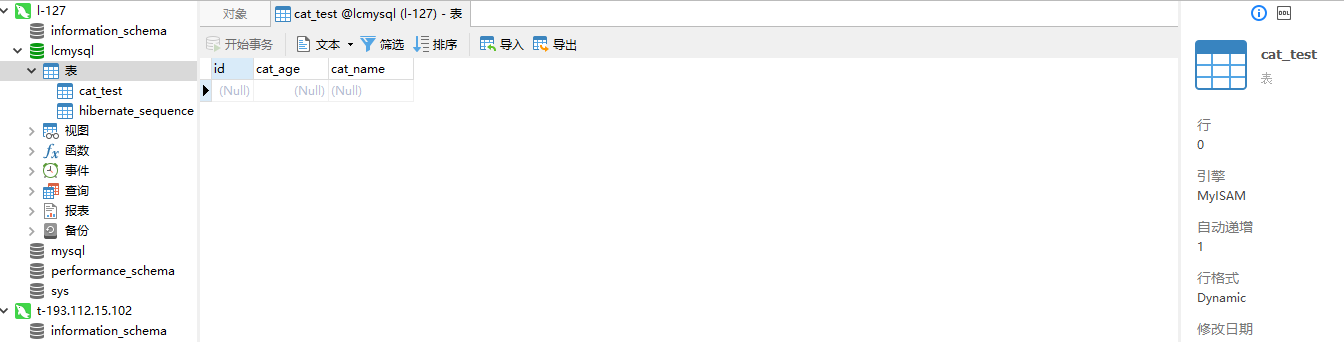
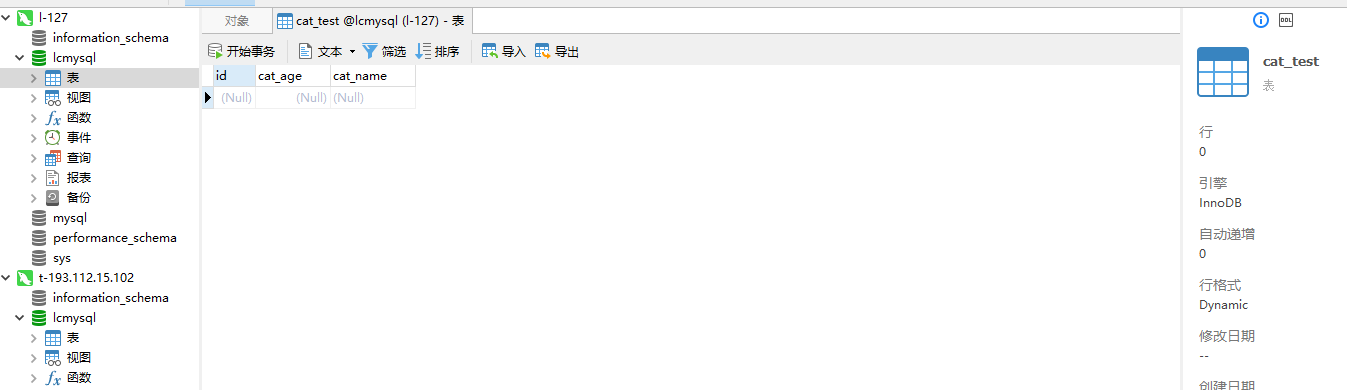
Site updated: 2018-06-19 01:20:05

diff --git a/2016/10/18/HTML/index.html b/2016/10/18/HTML/index.html
@@ -398,7 +398,7 @@
 <h1 id="2-UEditor使用注意事项"><a href="#2-UEditor使用注意事项" class="headerlink" title="2.UEditor使用注意事项"></a>2.UEditor使用注意事项</h1><h2 id="2-1引入UEditor和回显图片"><a href="#2-1引入UEditor和回显图片" class="headerlink" title="2.1引入UEditor和回显图片"></a>2.1引入UEditor和回显图片</h2><ul>
 <li>jsp页面引用：</li>
 </ul>
-<figure class="highlight html"><table><tr><td class="gutter"><pre><span class="line">1</span><br><span class="line">2</span><br><span class="line">3</span><br><span class="line">4</span><br><span class="line">5</span><br><span class="line">6</span><br><span class="line">7</span><br><span class="line">8</span><br><span class="line">9</span><br><span class="line">10</span><br><span class="line">11</span><br><span class="line">12</span><br><span class="line">13</span><br><span class="line">14</span><br><span class="line">15</span><br><span class="line">16</span><br><span class="line">17</span><br></pre></td><td class="code"><pre><span class="line"><span class="comment">&lt;!-- 文档编辑器 --&gt;</span></span><br><span class="line"><span class="tag">&lt;<span class="name">script</span> <span class="attr">type</span>=<span class="string">"text/javascript"</span> <span class="attr">charset</span>=<span class="string">"utf-8"</span></span></span><br><span class="line"><span class="tag">	<span class="attr">src</span>=<span class="string">"$&#123;contextPath&#125;/resource/scripts/ueditor/ueditor.config.js"</span>&gt;</span><span class="undefined"></span><span class="tag">&lt;/<span class="name">script</span>&gt;</span></span><br><span class="line"><span class="tag">&lt;<span class="name">script</span> <span class="attr">type</span>=<span class="string">"text/javascript"</span> <span class="attr">charset</span>=<span class="string">"utf-8"</span></span></span><br><span class="line"><span class="tag">	<span class="attr">src</span>=<span class="string">"$&#123;contextPath&#125;/resource/scripts/ueditor/ueditor.all.min.js"</span>&gt;</span><span class="undefined"></span></span><br><span class="line"><span class="undefined"></span></span><br><span class="line"><span class="undefined"></span><span class="tag">&lt;/<span class="name">script</span>&gt;</span></span><br><span class="line"><span class="tag">&lt;<span class="name">script</span> <span class="attr">type</span>=<span class="string">"text/javascript"</span> <span class="attr">charset</span>=<span class="string">"utf-8"</span></span></span><br><span class="line"><span class="tag">	<span class="attr">src</span>=<span class="string">"$&#123;contextPath&#125;/resource/scripts/ueditor/lang/zh-cn/zh-cn.js"</span>&gt;</span><span class="undefined"></span><span class="tag">&lt;/<span class="name">script</span>&gt;</span></span><br><span class="line"><span class="tag">&lt;<span class="name">script</span>&gt;</span><span class="undefined"></span></span><br><span class="line"><span class="undefined">	window.UEDITOR_HOME_URL = "$&#123;contextPath&#125;/resource/scripts/ueditor/";</span></span><br><span class="line"><span class="undefined">	var ue = UE.getEditor('editor');</span></span><br><span class="line"><span class="undefined"></span><span class="tag">&lt;/<span class="name">script</span>&gt;</span></span><br><span class="line"><span class="tag">&lt;<span class="name">label</span>&gt;</span><span class="tag">&lt;<span class="name">h5</span>&gt;</span>&amp;nbsp;&amp;nbsp;静态页面内容：<span class="tag">&lt;/<span class="name">h5</span>&gt;</span><span class="tag">&lt;/<span class="name">label</span>&gt;</span></span><br><span class="line"><span class="tag">&lt;<span class="name">textarea</span> <span class="attr">id</span>=<span class="string">"editor"</span> <span class="attr">name</span>=<span class="string">"fContent"</span></span></span><br><span class="line"><span class="tag">	<span class="attr">style</span>=<span class="string">"width: 1500px; height: 400px"</span> <span class="attr">data-options</span>=<span class="string">"required:true"</span>&gt;</span><span class="tag">&lt;/<span class="name">textarea</span>&gt;</span></span><br><span class="line"><span class="tag">&lt;/<span class="name">div</span>&gt;</span></span><br></pre></td></tr></table></figure>
+<figure class="highlight html"><table><tr><td class="gutter"><pre><span class="line">1</span><br><span class="line">2</span><br><span class="line">3</span><br><span class="line">4</span><br><span class="line">5</span><br><span class="line">6</span><br><span class="line">7</span><br><span class="line">8</span><br><span class="line">9</span><br><span class="line">10</span><br><span class="line">11</span><br><span class="line">12</span><br><span class="line">13</span><br><span class="line">14</span><br><span class="line">15</span><br><span class="line">16</span><br><span class="line">17</span><br></pre></td><td class="code"><pre><span class="line"><span class="comment">&lt;!-- 文档编辑器 --&gt;</span></span><br><span class="line"><span class="tag">&lt;<span class="name">script</span> <span class="attr">type</span>=<span class="string">"text/javascript"</span> <span class="attr">charset</span>=<span class="string">"utf-8"</span></span></span><br><span class="line"><span class="tag">	<span class="attr">src</span>=<span class="string">"$&#123;contextPath&#125;/resource/scripts/ueditor/ueditor.config.js"</span>&gt;</span><span class="undefined"></span><span class="tag">&lt;/<span class="name">script</span>&gt;</span></span><br><span class="line"><span class="tag">&lt;<span class="name">script</span> <span class="attr">type</span>=<span class="string">"text/javascript"</span> <span class="attr">charset</span>=<span class="string">"utf-8"</span></span></span><br><span class="line"><span class="tag">	<span class="attr">src</span>=<span class="string">"$&#123;contextPath&#125;/resource/scripts/ueditor/ueditor.all.min.js"</span>&gt;</span><span class="undefined"></span></span><br><span class="line"><span class="undefined"></span></span><br><span class="line"><span class="undefined"></span><span class="tag">&lt;/<span class="name">script</span>&gt;</span></span><br><span class="line"><span class="tag">&lt;<span class="name">script</span> <span class="attr">type</span>=<span class="string">"text/javascript"</span> <span class="attr">charset</span>=<span class="string">"utf-8"</span></span></span><br><span class="line"><span class="tag">	<span class="attr">src</span>=<span class="string">"$&#123;contextPath&#125;/resource/scripts/ueditor/lang/zh-cn/zh-cn.js"</span>&gt;</span><span class="undefined"></span><span class="tag">&lt;/<span class="name">script</span>&gt;</span></span><br><span class="line"><span class="tag">&lt;<span class="name">script</span>&gt;</span><span class="undefined"></span></span><br><span class="line"><span class="javascript">	<span class="built_in">window</span>.UEDITOR_HOME_URL = <span class="string">"$&#123;contextPath&#125;/resource/scripts/ueditor/"</span>;</span></span><br><span class="line"><span class="javascript">	<span class="keyword">var</span> ue = UE.getEditor(<span class="string">'editor'</span>);</span></span><br><span class="line"><span class="undefined"></span><span class="tag">&lt;/<span class="name">script</span>&gt;</span></span><br><span class="line"><span class="tag">&lt;<span class="name">label</span>&gt;</span><span class="tag">&lt;<span class="name">h5</span>&gt;</span>&amp;nbsp;&amp;nbsp;静态页面内容：<span class="tag">&lt;/<span class="name">h5</span>&gt;</span><span class="tag">&lt;/<span class="name">label</span>&gt;</span></span><br><span class="line"><span class="tag">&lt;<span class="name">textarea</span> <span class="attr">id</span>=<span class="string">"editor"</span> <span class="attr">name</span>=<span class="string">"fContent"</span></span></span><br><span class="line"><span class="tag">	<span class="attr">style</span>=<span class="string">"width: 1500px; height: 400px"</span> <span class="attr">data-options</span>=<span class="string">"required:true"</span>&gt;</span><span class="tag">&lt;/<span class="name">textarea</span>&gt;</span></span><br><span class="line"><span class="tag">&lt;/<span class="name">div</span>&gt;</span></span><br></pre></td></tr></table></figure>
 <ul>
 <li>ueditor.config.js配置</li>
 </ul>

diff --git a/2017/12/28/SpringBoot/index.html b/2017/12/28/SpringBoot/index.html
@@ -103,7 +103,7 @@
 <meta property="og:image" content="https://volc1605.github.io/images/springboot/springboot15.png">
 <meta property="og:image" content="https://volc1605.github.io/images/springboot/springboot16.png">
 <meta property="og:image" content="https://volc1605.github.io/images/springboot/a.png">
-<meta property="og:updated_time" content="2018-06-18T17:05:12.780Z">
+<meta property="og:updated_time" content="2018-06-18T17:19:25.433Z">
 <meta name="twitter:card" content="summary">
 <meta name="twitter:title" content="SpringBoot">
 <meta name="twitter:description" content="SpringBoot">
@@ -347,7 +347,7 @@
                   |
                 <span>更新于</span>
                 <time>
-                  2017-12-28
+                  2018-06-18
                   22:25:27
                 </time>
               </span>
@@ -497,7 +497,7 @@
 <h4 id="springboot热部署"><a href="#springboot热部署" class="headerlink" title="springboot热部署"></a>springboot热部署</h4><h5 id="导包和安装插件"><a href="#导包和安装插件" class="headerlink" title="导包和安装插件"></a>导包和安装插件</h5><figure class="highlight plain"><table><tr><td class="gutter"><pre><span class="line">1</span><br><span class="line">2</span><br><span class="line">3</span><br><span class="line">4</span><br><span class="line">5</span><br><span class="line">6</span><br><span class="line">7</span><br><span class="line">8</span><br><span class="line">9</span><br><span class="line">10</span><br><span class="line">11</span><br><span class="line">12</span><br><span class="line">13</span><br><span class="line">14</span><br></pre></td><td class="code"><pre><span class="line"> &lt;!-- https://mvnrepository.com/artifact/org.springframework.boot/spring-boot-devtools --&gt;</span><br><span class="line">&lt;dependency&gt;</span><br><span class="line">	&lt;groupId&gt;org.springframework.boot&lt;/groupId&gt;</span><br><span class="line">	&lt;artifactId&gt;spring-boot-devtools&lt;/artifactId&gt;</span><br><span class="line">	&lt;optional&gt;true&lt;/optional&gt;</span><br><span class="line">&lt;/dependency&gt;</span><br><span class="line">&lt;plugin&gt;</span><br><span class="line">	&lt;groupId&gt;org.springframework.boot&lt;/groupId&gt;</span><br><span class="line">	&lt;artifactId&gt;spring-boot-maven-plugin&lt;/artifactId&gt;</span><br><span class="line">	&lt;configuration&gt;</span><br><span class="line">		&lt;!--fork :  如果没有该项配置，肯呢个devtools不会起作用，即应用不会restart --&gt;</span><br><span class="line">		&lt;fork&gt;true&lt;/fork&gt;</span><br><span class="line">	&lt;/configuration&gt;</span><br><span class="line">&lt;/plugin&gt;</span><br></pre></td></tr></table></figure>
 <h5 id="设置idea"><a href="#设置idea" class="headerlink" title="设置idea"></a>设置idea</h5><p>CTRL + SHIFT + A –&gt; 查找make project automatically –&gt; 选中<br>CTRL + SHIFT + A –&gt; 查找Registry –&gt; 找到并勾选compiler.automake.allow.when.app.running</p>
 <p>等待项目自启动后，在使用Ctrl+Shift+F9，再次重新编译，项目再次重启</p>
-<h3 id="JPA配置"><a href="#JPA配置" class="headerlink" title="JPA配置"></a>JPA配置</h3><figure class="highlight plain"><table><tr><td class="gutter"><pre><span class="line">1</span><br><span class="line">2</span><br><span class="line">3</span><br><span class="line">4</span><br><span class="line">5</span><br><span class="line">6</span><br><span class="line">7</span><br><span class="line">8</span><br><span class="line">9</span><br><span class="line">10</span><br><span class="line">11</span><br><span class="line">12</span><br><span class="line">13</span><br><span class="line">14</span><br><span class="line">15</span><br><span class="line">16</span><br><span class="line">17</span><br><span class="line">18</span><br><span class="line">19</span><br><span class="line">20</span><br><span class="line">21</span><br></pre></td><td class="code"><pre><span class="line"># 数据库配置</span><br><span class="line">spring:</span><br><span class="line">  http:</span><br><span class="line">    encoding:</span><br><span class="line">      force: true</span><br><span class="line">      charset: UTF-8</span><br><span class="line">      enabled: true</span><br><span class="line">  datasource:</span><br><span class="line">    driver-class-name: com.mysql.jdbc.Driver</span><br><span class="line">    url: jdbc:mysql://localhost:3306/lcmysql?characterEncoding=UTF-8&amp;useSSL=false</span><br><span class="line">    username: root</span><br><span class="line">    password: root</span><br><span class="line">  # jap配置</span><br><span class="line">  jpa:</span><br><span class="line">    show-sql: true</span><br><span class="line">    hibernate:</span><br><span class="line">      ddl-auto: update</span><br><span class="line">      naming-strategy: org.hibernate.cfg.ImprovedNamingStrategy</span><br><span class="line">    properties:</span><br><span class="line">      hibernate:</span><br><span class="line">        dialect: org.hibernate.dialect.MySQL5Dialect</span><br></pre></td></tr></table></figure>
+<h3 id="JPA配置"><a href="#JPA配置" class="headerlink" title="JPA配置"></a>JPA配置</h3><figure class="highlight plain"><table><tr><td class="gutter"><pre><span class="line">1</span><br><span class="line">2</span><br><span class="line">3</span><br><span class="line">4</span><br><span class="line">5</span><br><span class="line">6</span><br><span class="line">7</span><br><span class="line">8</span><br><span class="line">9</span><br><span class="line">10</span><br><span class="line">11</span><br><span class="line">12</span><br><span class="line">13</span><br><span class="line">14</span><br><span class="line">15</span><br><span class="line">16</span><br><span class="line">17</span><br><span class="line">18</span><br><span class="line">19</span><br><span class="line">20</span><br><span class="line">21</span><br><span class="line">22</span><br><span class="line">23</span><br><span class="line">24</span><br></pre></td><td class="code"><pre><span class="line"># 数据库配置</span><br><span class="line">spring:</span><br><span class="line">  http:</span><br><span class="line">    encoding:</span><br><span class="line">      force: true</span><br><span class="line">      charset: UTF-8</span><br><span class="line">      enabled: true</span><br><span class="line">  datasource:</span><br><span class="line">    driver-class-name: com.mysql.jdbc.Driver</span><br><span class="line">    url: jdbc:mysql://localhost:3306/lcmysql?characterEncoding=UTF-8&amp;useSSL=false</span><br><span class="line">    username: root</span><br><span class="line">    password: root</span><br><span class="line">    # Hikari 数据源专用配置</span><br><span class="line">    hikari:</span><br><span class="line">      maximum-pool-size: 20</span><br><span class="line">      minimum-idle: 5</span><br><span class="line">  # jap配置</span><br><span class="line">  jpa:</span><br><span class="line">    # 默认为MyISAM 两种类型最主要的差别就是Innodb 支持事务处理与外键和行级锁.而MyISAM不支持</span><br><span class="line">    database-platform: org.hibernate.dialect.MySQL5InnoDBDialect</span><br><span class="line">    show-sql: true</span><br><span class="line">    hibernate:</span><br><span class="line">      ddl-auto: update</span><br><span class="line">      naming-strategy: org.hibernate.cfg.ImprovedNamingStrategy</span><br></pre></td></tr></table></figure>
 <p>报错：</p>
 <figure class="highlight plain"><table><tr><td class="gutter"><pre><span class="line">1</span><br></pre></td><td class="code"><pre><span class="line">hibernate错误org.hibernate.AnnotationException: No identifier specified for entity:</span><br></pre></td></tr></table></figure>
 <p>原因是：实体类@Id引用包的问题</p>

diff --git a/2016/10/03/Hexo之NexT主题搭建博客详细过程/index.html b/2016/10/03/Hexo之NexT主题搭建博客详细过程/index.html
@@ -677,7 +677,7 @@
 <li>Hexo\themes\next\bower.json   </li>
 </ol>
 <h1 id="13-统计本站运行天数"><a href="#13-统计本站运行天数" class="headerlink" title="13.统计本站运行天数"></a>13.统计本站运行天数</h1><p>修改blog\themes\next\layout_partials\footer.swig文件，在后面追加以下代码<br><figure class="highlight javascript"><table><tr><td class="gutter"><pre><span class="line">1</span><br><span class="line">2</span><br><span class="line">3</span><br><span class="line">4</span><br><span class="line">5</span><br><span class="line">6</span><br><span class="line">7</span><br></pre></td><td class="code"><pre><span class="line">&lt;script&gt;</span><br><span class="line">	<span class="keyword">var</span> birthDay = <span class="keyword">new</span> <span class="built_in">Date</span>(<span class="string">'09/1/2016'</span>);</span><br><span class="line">	<span class="keyword">var</span> now = <span class="keyword">new</span> <span class="built_in">Date</span>();</span><br><span class="line">	<span class="keyword">var</span> duration = now.getTime() - birthDay.getTime();</span><br><span class="line">	<span class="keyword">var</span> total= <span class="built_in">Math</span>.floor(duration / (<span class="number">1000</span> * <span class="number">60</span> * <span class="number">60</span> * <span class="number">24</span>));</span><br><span class="line">	<span class="built_in">document</span>.getElementById(<span class="string">'showDays'</span>).innerHTML=<span class="string">'本站已运行'</span> + total + <span class="string">'天'</span>;</span><br><span class="line">&lt;<span class="regexp">/script&gt;</span></span><br></pre></td></tr></table></figure></p>
-<p>在最后一个div中追加一下代码<br><figure class="highlight javascript"><table><tr><td class="gutter"><pre><span class="line">1</span><br><span class="line">2</span><br></pre></td><td class="code"><pre><span class="line">&lt;span&gt;&amp;nbsp;&amp;nbsp;&amp;nbsp;|&amp;nbsp;&amp;nbsp;&amp;nbsp;<span class="xml"><span class="tag">&lt;/<span class="name">span</span>&gt;</span></span></span><br><span class="line">&lt;span id=<span class="string">"showDays"</span>&gt;<span class="xml"><span class="tag">&lt;/<span class="name">span</span>&gt;</span></span></span><br></pre></td></tr></table></figure></p>
+<p>在最后一个div中追加一下代码<br><figure class="highlight javascript"><table><tr><td class="gutter"><pre><span class="line">1</span><br><span class="line">2</span><br></pre></td><td class="code"><pre><span class="line">&lt;span&gt;&amp;nbsp;&amp;nbsp;&amp;nbsp;|&amp;nbsp;&amp;nbsp;&amp;nbsp;&lt;/span&gt;</span><br><span class="line">&lt;span id=<span class="string">"showDays"</span>&gt;&lt;/span&gt;</span><br></pre></td></tr></table></figure></p>
 <h1 id="14-阿里云解析域名到github"><a href="#14-阿里云解析域名到github" class="headerlink" title="14.阿里云解析域名到github"></a>14.阿里云解析域名到github</h1><p><img src="https://volc1605.github.io/images/Hexo之NexT主题搭建博客详细过程/jiexi.png" alt=""><br>在博客根目录添加CNAME文件<br><img src="https://volc1605.github.io/images/Hexo之NexT主题搭建博客详细过程/cname.png" alt=""></p>
 <h1 id="15-引入gitment评论"><a href="#15-引入gitment评论" class="headerlink" title="15.引入gitment评论"></a>15.引入gitment评论</h1><p>由于阿里云清除了空壳网站的备案信息，畅言有可能用不了了！！下面使用git自带的评论。</p>
 <figure class="highlight plain"><table><tr><td class="gutter"><pre><span class="line">1</span><br></pre></td><td class="code"><pre><span class="line">// http://blog.csdn.net/yanzi1225627/article/details/77890414(hexo集成gitment评论)</span><br></pre></td></tr></table></figure>

diff --git a/2017/02/06/Jdbc复习/index.html b/2017/02/06/Jdbc复习/index.html
@@ -61,7 +61,7 @@
 <link href="/css/main.css?v=5.0.1" rel="stylesheet" type="text/css" />
 
 
-  <meta name="keywords" content="java,jdbc," />
+  <meta name="keywords" content="jdbc,java," />
 
 
 
@@ -78,7 +78,7 @@
 
 
 <meta name="description" content="1.链接数据库工具类">
-<meta name="keywords" content="java,jdbc">
+<meta name="keywords" content="jdbc,java">
 <meta property="og:type" content="article">
 <meta property="og:title" content="JDBC">
 <meta property="og:url" content="https://volc1605.github.io/2017/02/06/Jdbc复习/index.html">
@@ -436,9 +436,9 @@
       
         <div class="post-tags">
           
-            <a href="/tags/java/" rel="tag">#java</a>
-          
             <a href="/tags/jdbc/" rel="tag">#jdbc</a>
+          
+            <a href="/tags/java/" rel="tag">#java</a>
           
         </div>
       

diff --git a/index.html b/index.html
@@ -1527,7 +1527,7 @@
                   |
                 <span>更新于</span>
                 <time>
-                  2017-12-28
+                  2018-06-18
                   22:25:27
                 </time>
               </span>

diff --git a/css/main.css b/css/main.css
@@ -1663,7 +1663,7 @@ pre .javascript .function {
   width: 4px;
   height: 4px;
   border-radius: 50%;
-  background: #dd0f03;
+  background: #ffe90a;
 }
 .links-of-blogroll {
   font-size: 13px;
